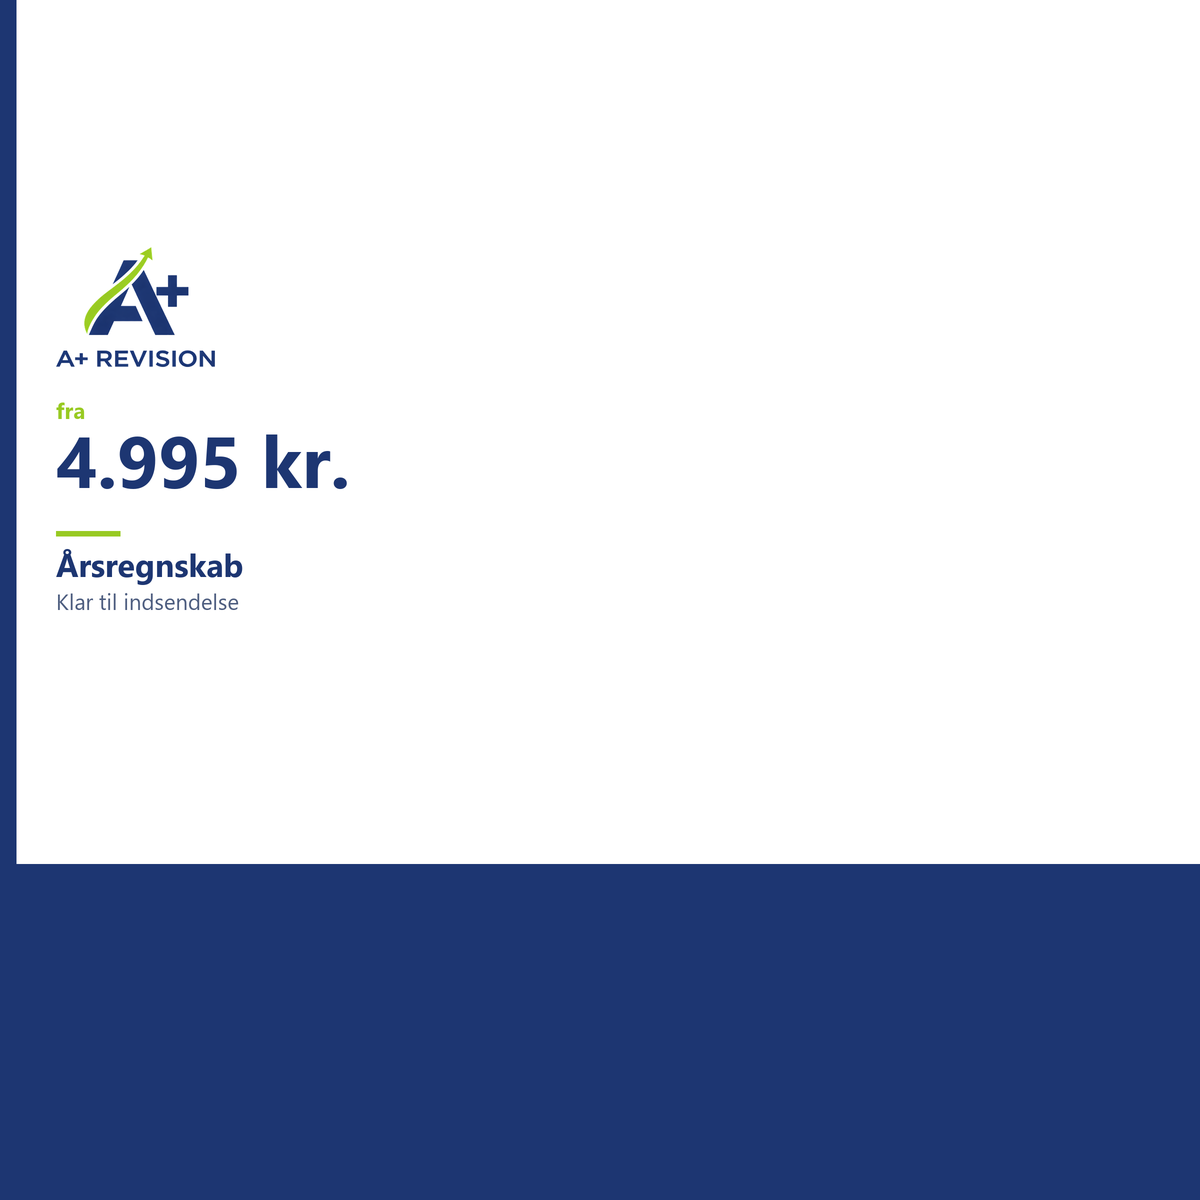
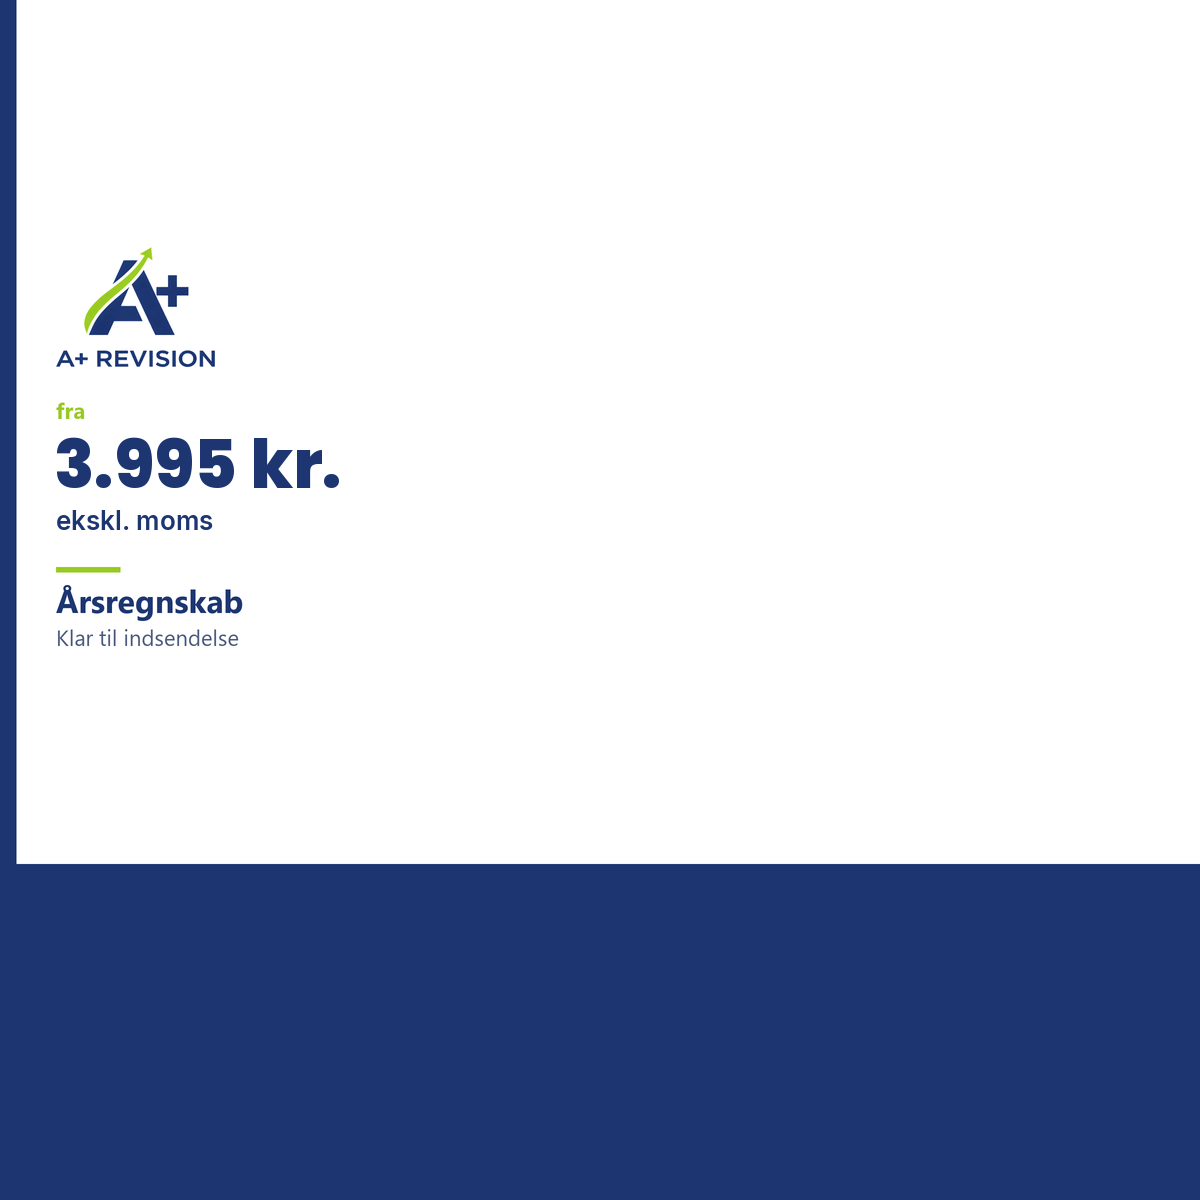
Sænk prisen på årsregnskab til 3.995 kr. ekskl. moms. (#5)
Bogføring, rådgivning og løn er uændret, og JSON-LD priceRange bliver på DKK 895+.

Changed region(s): [[0.0308, 0.3392, 0.2775, 0.555]]

diff --git a/src/seo.ts b/src/seo.ts
@@ -10,7 +10,7 @@ const da: Record<string, SeoSide> = {
   "/": {
     title: "Bogføring og årsregnskab i København | A+ Revision",
     description:
-      "Løbende bogføring fra 895 kr. om måneden. Årsregnskab fra 4.995 kr. Skat og moms. Én kontaktperson. Ring 50 29 51 59.",
+      "Løbende bogføring fra 895 kr. om måneden. Årsregnskab fra 3.995 kr. ekskl. moms. Skat og moms. Én kontaktperson. Ring 50 29 51 59.",
     robots: "index,follow",
   },
   "/services": {
@@ -26,9 +26,9 @@ const da: Record<string, SeoSide> = {
     robots: "index,follow",
   },
   "/services/annual-accounts": {
-    title: "Årsregnskab fra 4.995 kr. | A+ Revision",
+    title: "Årsregnskab fra 3.995 kr. | A+ Revision",
     description:
-      "Vi laver årsregnskabet og gør det klar til indsendelse. Du får et tydeligt tilbud, før vi starter. Fra 4.995 kr.",
+      "Vi laver årsregnskabet og gør det klar til indsendelse. Du får et tydeligt tilbud, før vi starter. Fra 3.995 kr. ekskl. moms.",
     robots: "index,follow",
   },
   "/services/tax-returns": {
@@ -58,7 +58,7 @@ const da: Record<string, SeoSide> = {
   "/pricing": {
     title: "Priser på bogføring og årsregnskab | A+ Revision",
     description:
-      "Bogføring fra 895 kr. om måneden. Årsregnskab fra 4.995 kr. Rådgivning fra 495 kr. i timen. Prisen aftales, før vi starter.",
+      "Bogføring fra 895 kr. om måneden. Årsregnskab fra 3.995 kr. ekskl. moms. Rådgivning fra 495 kr. i timen. Prisen aftales, før vi starter.",
     robots: "index,follow",
   },
   "/about": {
@@ -85,7 +85,7 @@ const en: Record<string, SeoSide> = {
   "/": {
     title: "Bookkeeping and annual accounts in Copenhagen | A+",
     description:
-      "Monthly bookkeeping from DKK 895. Annual accounts from DKK 4,995. Tax and VAT. One contact person. Call +45 50 29 51 59.",
+      "Monthly bookkeeping from DKK 895. Annual accounts from DKK 3,995 excl. VAT. Tax and VAT. One contact person. Call +45 50 29 51 59.",
     robots: "index,follow",
   },
   "/services": {
@@ -101,9 +101,9 @@ const en: Record<string, SeoSide> = {
     robots: "index,follow",
   },
   "/services/annual-accounts": {
-    title: "Annual accounts from DKK 4,995 | A+ Revision",
+    title: "Annual accounts from DKK 3,995 | A+ Revision",
     description:
-      "We prepare the annual accounts and make them ready to file. You get a clear price before we start. From DKK 4,995.",
+      "We prepare the annual accounts and make them ready to file. You get a clear price before we start. From DKK 3,995 excl. VAT.",
     robots: "index,follow",
   },
   "/services/tax-returns": {
@@ -133,7 +133,7 @@ const en: Record<string, SeoSide> = {
   "/pricing": {
     title: "Prices for bookkeeping and accounts | A+ Revision",
     description:
-      "Bookkeeping from DKK 895 a month. Annual accounts from DKK 4,995. Advice from DKK 495 an hour. The price is agreed first.",
+      "Bookkeeping from DKK 895 a month. Annual accounts from DKK 3,995 excl. VAT. Advice from DKK 495 an hour. The price is agreed first.",
     robots: "index,follow",
   },
   "/about": {

diff --git a/src/pages/PricingPage.tsx b/src/pages/PricingPage.tsx
@@ -10,8 +10,9 @@ export function PricingPage() {
       icon: FileText,
       title: t.services.annualAccounts.title,
       description: t.services.annualAccounts.shortDesc,
-      price: '4.995 DKK',
+      price: '3.995 DKK',
       unit: '',
+      exclVat: true,
       features: t.services.annualAccounts.includes,
       popular: false,
       link: '/services/annual-accounts',
@@ -22,6 +23,7 @@ export function PricingPage() {
       description: t.services.bookkeeping.shortDesc,
       price: '895 DKK',
       unit: t.services.perMonth,
+      exclVat: false,
       features: t.services.bookkeeping.includes,
       popular: true,
       link: '/services/bookkeeping',
@@ -32,6 +34,7 @@ export function PricingPage() {
       description: t.services.advisory.shortDesc,
       price: '495 DKK',
       unit: t.services.perHour,
+      exclVat: false,
       features: t.services.advisory.includes,
       popular: false,
       link: '/services/advisory',
@@ -62,6 +65,7 @@ export function PricingPage() {
           <div className="max-w-3xl mx-auto text-center">
             <h1 className="text-4xl font-bold text-gray-900 mb-4">{t.pricing.title}</h1>
             <p className="text-xl text-gray-600">{t.pricing.subtitle}</p>
+            <p className="text-sm text-gray-500 mt-3">{t.pricing.allPricesExclVat}</p>
           </div>
         </div>
       </section>
@@ -98,6 +102,7 @@ export function PricingPage() {
                       <span className="text-3xl font-bold text-gray-900">{item.price}</span>
                       {item.unit && <span className="text-gray-500">{item.unit}</span>}
                     </div>
+                    {item.exclVat && <p className="text-sm text-gray-500">{t.pricing.exclVat}</p>}
                   </div>
                   <ul className="space-y-3 mb-8">
                     {item.features.slice(0, 4).map((feature, idx) => (

diff --git a/src/pages/HomePage.tsx b/src/pages/HomePage.tsx
@@ -25,7 +25,8 @@ export function HomePage() {
       icon: FileText,
       title: t.services.annualAccounts.title,
       description: t.services.annualAccounts.shortDesc,
-      price: '4.995 DKK',
+      price: '3.995 DKK',
+      priceUnit: t.pricing.exclVat,
       link: '/services/annual-accounts',
     },
     {
@@ -143,7 +144,8 @@ export function HomePage() {
               <FileText className="w-10 h-10 text-white mx-auto mb-4" />
               <h3 className="text-lg font-semibold text-white mb-2">{t.services.annualAccounts.title}</h3>
               <p className="text-primary-100 text-sm mb-4">{t.pricing.startingFrom}</p>
-              <p className="text-3xl font-bold text-white">4.995 DKK</p>
+              <p className="text-3xl font-bold text-white">3.995 DKK</p>
+              <p className="text-primary-200 text-sm">{t.pricing.exclVat}</p>
             </div>
             <div className="bg-white rounded-2xl p-6 text-center shadow-xl transform lg:scale-105">
               <div className="inline-block bg-primary-600 text-white text-xs font-semibold px-3 py-1 rounded-full mb-4">
@@ -164,6 +166,7 @@ export function HomePage() {
             </div>
           </div>
           <div className="text-center mt-10">
+            <p className="text-primary-100 text-sm mb-6">{t.pricing.allPricesExclVat}</p>
             <Link
               to="/pricing"
               className="inline-flex items-center gap-2 bg-white text-primary-600 px-6 py-3 rounded-lg font-semibold hover:bg-primary-50 transition-colors"

diff --git a/src/i18n/translations.ts b/src/i18n/translations.ts
@@ -145,6 +145,8 @@ export const translations = {
       disclaimer: 'Alle priser er startpriser. Den endelige pris afhænger af transaktionsvolumen, kompleksitet, deadlines og dokumentation. Du modtager altid et tydeligt tilbud inden arbejdet påbegyndes.',
       mostPopular: 'Mest populære',
       startingFrom: 'Fra',
+      exclVat: 'ekskl. moms',
+      allPricesExclVat: 'Alle priser er ekskl. moms',
       viewFullPricing: 'Se alle priser',
       whatDeterminesPrice: 'Hvad bestemmer prisen?',
       priceFactors: 'Prisen afhænger af antal transaktioner, kompleksitet, deadlines og kvaliteten af dokumentation.',
@@ -431,6 +433,8 @@ export const translations = {
       disclaimer: 'All prices are starting prices. Final pricing depends on transaction volume, complexity, deadlines, and documentation. You will always receive a clear offer before any work begins.',
       mostPopular: 'Most popular',
       startingFrom: 'From',
+      exclVat: 'excl. VAT',
+      allPricesExclVat: 'All prices are excl. VAT',
       viewFullPricing: 'View full pricing',
       whatDeterminesPrice: 'What determines the price?',
       priceFactors: 'The price depends on number of transactions, complexity, deadlines and quality of documentation.',

diff --git a/index.html b/index.html
@@ -31,10 +31,10 @@
     <meta name="theme-color" content="#102a43" />
     <meta name="robots" content="index, follow" />
     <title>Bogføring og årsregnskab i København | A+ Revision</title>
-    <meta name="description" content="Løbende bogføring fra 895 kr. om måneden. Årsregnskab fra 4.995 kr. Skat og moms. Én kontaktperson. Ring 50 29 51 59." />
+    <meta name="description" content="Løbende bogføring fra 895 kr. om måneden. Årsregnskab fra 3.995 kr. ekskl. moms. Skat og moms. Én kontaktperson. Ring 50 29 51 59." />
     <link rel="canonical" href="https://www.aplusrevision.dk/" />
     <meta property="og:title" content="Bogføring og årsregnskab i København | A+ Revision" />
-    <meta property="og:description" content="Løbende bogføring fra 895 kr. om måneden. Årsregnskab fra 4.995 kr. Skat og moms. Én kontaktperson. Ring 50 29 51 59." />
+    <meta property="og:description" content="Løbende bogføring fra 895 kr. om måneden. Årsregnskab fra 3.995 kr. ekskl. moms. Skat og moms. Én kontaktperson. Ring 50 29 51 59." />
     <meta property="og:url" content="https://www.aplusrevision.dk/" />
     <meta property="og:type" content="website" />
     <meta property="og:locale" content="da_DK" />

diff --git a/src/pages/ServiceDetailPage.tsx b/src/pages/ServiceDetailPage.tsx
@@ -26,9 +26,9 @@ const serviceKeys: Record<string, ServiceKey> = {
   'salary': 'salary',
 };
 
-const servicePrices: Record<ServiceKey, { price?: string; unit?: 'perMonth' | 'perHour' | 'perEmployee' }> = {
+const servicePrices: Record<ServiceKey, { price?: string; unit?: 'perMonth' | 'perHour' | 'perEmployee'; exclVat?: boolean }> = {
   bookkeeping: { price: '895 DKK', unit: 'perMonth' },
-  annualAccounts: { price: '4.995 DKK' },
+  annualAccounts: { price: '3.995 DKK', exclVat: true },
   taxReturns: {},
   vat: {},
   advisory: { price: '495 DKK', unit: 'perHour' },
@@ -83,6 +83,7 @@ export function ServiceDetailPage() {
                     {pricing.price}
                     {pricing.unit && <span className="text-lg font-normal text-primary-700"> {t.services[pricing.unit]}</span>}
                   </p>
+                  {pricing.exclVat && <p className="text-sm text-primary-700 mt-1">{t.pricing.exclVat}</p>}
                 </div>
               )}
               {'pricing' in service && (

diff --git a/public/ads/index.html b/public/ads/index.html
@@ -14,7 +14,7 @@
 <img src="land-moede.png" alt="Gratis intromøde">
 <img src="land-overtag.png" alt="Vi overtager bogføringen">
 <img src="sq-hero.png" alt="Regnskab, skat og moms">
-<img src="sq-aarsregnskab.png" alt="Årsregnskab fra 4.995 kr.">
+<img src="sq-aarsregnskab.png" alt="Årsregnskab fra 3.995 kr. ekskl. moms">
 <img src="sq-kontakt.png" alt="Én fast kontaktperson">
 <img src="port-hero.png" alt="Regnskab, skat og moms">
 <img src="port-bogfoering.png" alt="Bogføring fra 895 kr.">

diff --git a/src/pages/ServicesPage.tsx b/src/pages/ServicesPage.tsx
@@ -18,7 +18,8 @@ export function ServicesPage() {
       icon: FileText,
       title: t.services.annualAccounts.title,
       description: t.services.annualAccounts.shortDesc,
-      price: '4.995 DKK',
+      price: '3.995 DKK',
+      priceUnit: t.pricing.exclVat,
       link: '/services/annual-accounts',
     },
     {
